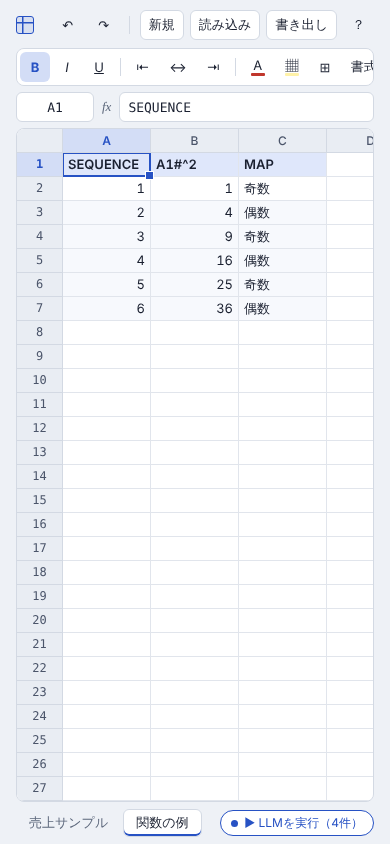
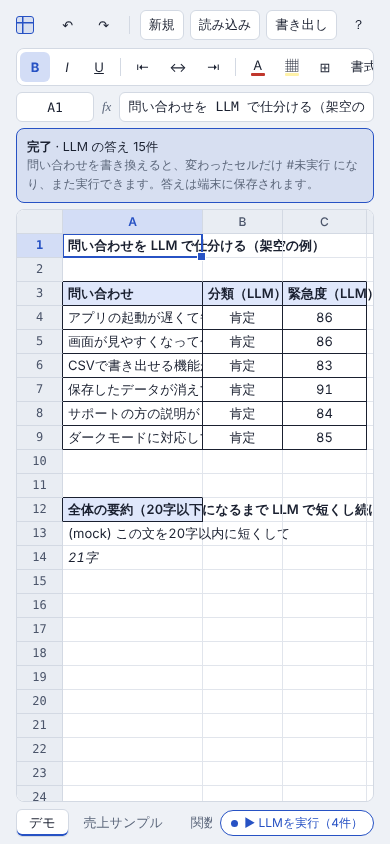
方眼シート: 最初に開くデモを「LLM で問い合わせを仕分ける」に
- デモのシート（最初に開く）: 問い合わせ6件を LLM で分類・緊急度付けし、
  COUNTIF / AVERAGE / FILTER で集計、LOOP の中の LLM で要約を短くし続ける
- 上に「▶ デモを実行」のバー。押すまで呼ばない（手動のまま）。押すと
  このシートの LLM だけを1本ずつ実行し、LOOP の次の周など後から出てきた
  呼び出しも続けて実行する。進み具合・失敗の理由・完了を表示
- provider「device」（端末内 LLM・Qwen2.5-0.5B）を使う。WebGPU が無い端末では
  その旨と、設定で Ollama などに変えられることを出す
- 「？」から「デモ」シートを足せる（前のブックが残っている端末向け）
- tests/sheet.mjs: デモの通しテスト5件を追加（24件）

Claude-Session: https://claude.ai/code/session_01187JFLJqkn8KTj1zCNq7Kp

Changed region(s): [[0.0308, 0.0924, 0.9846, 1.0], [0.5538, 0.1232, 0.6154, 0.154]]

diff --git a/sheet.html b/sheet.html
@@ -120,6 +120,11 @@ th.hs{background:var(--hsel);color:var(--accent);font-weight:600}
 .seg{display:inline-flex;border:1px solid var(--line);border-radius:6px;overflow:hidden}
 .seg button{border:none;border-radius:0;height:28px}
 .warn{color:var(--err)}
+.demo{display:flex;align-items:center;gap:10px;flex-wrap:wrap;flex:none;background:var(--accent-soft);border:1px solid var(--accent);border-radius:8px;padding:8px 10px}
+.demo .dtx{flex:1 1 240px;min-width:0;font-size:12.5px;line-height:1.55;color:var(--ink)}
+.demo .dtx b{font-weight:600}
+.demo .dtx .sub{display:block;color:var(--muted);font-size:12px}
+.demo .btn.primary{height:34px;padding:0 14px;font-weight:600}
 #toast{position:fixed;left:50%;bottom:calc(56px + env(safe-area-inset-bottom,0px));transform:translateX(-50%);background:var(--ink);color:var(--surface);padding:8px 14px;border-radius:8px;font-size:13px;z-index:60;max-width:calc(100% - 32px);text-align:center;transition:opacity .2s}
 @media (prefers-reduced-motion:reduce){#toast{transition:none}}
 @media (max-width:560px){.brand .tx{display:none}.stat{display:none}}
@@ -179,6 +184,11 @@ th.hs{background:var(--hsel);color:var(--accent);font-weight:600}
     <input id="nb" aria-label="セル番地" spellcheck="false" autocomplete="off">
     <span class="fxl">fx</span>
     <input id="fx" aria-label="数式バー" spellcheck="false" autocomplete="off">
+  </div>
+
+  <div class="demo" id="demoBar" hidden>
+    <div class="dtx" id="demoTx"></div>
+    <button class="btn primary" id="demoRun">▶ デモを実行</button>
   </div>
 
   <div class="gridwrap" id="wrap">
@@ -1107,7 +1117,7 @@ const MockProvider={
 const PROVIDERS={mock:MockProvider,openai_local:OpenAILocalProvider,webllm:WebLLMProvider};
 
 /* ---------- LLM の待ち行列（画面の側） ---------- */
-const LLMQ={queue:[],ctrl:null,progress:'',done:0,total:0};
+const LLMQ={queue:[],ctrl:null,progress:'',done:0,total:0,follow:null};
 function llmLoadCache(){try{const o=JSON.parse(localStorage.getItem(LS_LLM)||'{}');for(const k in o)LLMCore.results.set(k,o[k])}catch(_){}}
 let llmSaveT=null;
 function llmSaveCache(){clearTimeout(llmSaveT);llmSaveT=setTimeout(()=>{try{
@@ -1118,7 +1128,18 @@ LLMCore.enqueue=req=>{
   LLMQ.queue.push(req);LLMCore.queued.add(req.key);LLMQ.total++;
   setTimeout(llmPump,0);
 };
-function llmRunPending(){const list=[...LLMCore.pending.values()];list.forEach(r=>LLMCore.enqueue(r));LLMCore.pending=new Map();paint();return list.length}
+/* 実行ボタン: 未実行を順番待ちに入れる。filter を渡すとそれだけ。
+   押したあとに新しく出てきた呼び出し（LOOP の次の周など）も、同じ filter で続けて入れる（LLMQ.follow） */
+function llmRunPending(filter){
+  LLMQ.follow=filter||(()=>true);
+  const list=[...LLMCore.pending.values()].filter(r=>LLMQ.follow(r.key));
+  list.forEach(r=>{LLMCore.enqueue(r);LLMCore.pending.delete(r.key)});paint();return list.length}
+function llmFollow(){
+  if(!LLMQ.follow)return;
+  const list=[...LLMCore.pending.values()].filter(r=>LLMQ.follow(r.key));
+  list.forEach(r=>{LLMCore.enqueue(r);LLMCore.pending.delete(r.key)});
+  if(!list.length&&!LLMQ.queue.length&&!LLMCore.running)LLMQ.follow=null;
+}
 async function llmPump(){
   if(LLMCore.running||!LLMQ.queue.length){updateLLMChip();return}
   const job=LLMQ.queue.shift();LLMCore.queued.delete(job.key);LLMCore.running=job;
@@ -1143,12 +1164,12 @@ async function llmPump(){
   }finally{
     LLMCore.running=null;LLMQ.ctrl=null;LLMQ.progress='';LLMQ.done++;
     if(!LLMQ.queue.length){LLMQ.done=0;LLMQ.total=0}
-    paint();setTimeout(llmPump,0);
+    paint();llmFollow();setTimeout(llmPump,0);
   }
 }
 function llmStop(){
   const n=LLMQ.queue.length+(LLMCore.running?1:0);
-  for(const r of LLMQ.queue)LLMCore.queued.delete(r.key);LLMQ.queue=[];LLMQ.total=0;LLMQ.done=0;
+  LLMQ.follow=null;for(const r of LLMQ.queue)LLMCore.queued.delete(r.key);LLMQ.queue=[];LLMQ.total=0;LLMQ.done=0;
   if(LLMQ.ctrl)try{LLMQ.ctrl.abort()}catch(_){}
   paint();return n;
 }
@@ -1169,6 +1190,29 @@ function updateLLMChip(){
   else if(pend){chip.classList.add('wait');t.textContent=`▶ LLMを実行（${pend}件）`}
   else t.textContent=wb&&wb.llm&&wb.llm.auto?'LLM 自動':'LLM';
   if(!$('modal').hidden&&$('panel').dataset.kind==='llm')renderLLMStatus();
+  updateDemoBar();
+}
+function sheetLLMKeys(si){const keys=new Set();for(const[k,set]of cellLLM)if(k.startsWith(si+','))set.forEach(x=>keys.add(x));return keys}
+function updateDemoBar(){
+  const bar=$('demoBar');if(!bar||!wb)return;const sh=S();
+  if(!sh.demo){bar.hidden=true;return}
+  const keys=sheetLLMKeys(wb.active);let done=0,pend=0,err=null;
+  for(const k of keys){if(LLMCore.results.has(k))done++;else if(LLMCore.errors.has(k))err=err||LLMCore.errors.get(k);else pend++}
+  const busy=LLMCore.running||LLMQ.queue.length||LLMQ.follow;
+  const tx=$('demoTx'),btn=$('demoRun');bar.hidden=false;
+  const prov=(wb.llm.providers||{}).device;const what=prov?`${prov.adapter==='webllm'?'端末内の LLM':prov.adapter}（${esc(prov.model||prov.adapter)}）`:'provider「device」';
+  if(busy){btn.hidden=true;
+    tx.innerHTML=`<b>実行中</b> · ${LLMQ.progress?esc(LLMQ.progress):`答えが入ったセル ${done}件`}<span class="sub">LLM は1本ずつ呼ぶので、セルが順に埋まっていきます。下の「LLM 実行中」で止められます。</span>`}
+  else if(pend||err){btn.hidden=false;btn.textContent=err&&!pend?'▶ もう一度実行':'▶ デモを実行';
+    const gpu=typeof navigator!=='undefined'&&navigator.gpu;
+    tx.innerHTML=(err?`<b class="warn">止まった</b> · ${esc(err.code)}: ${esc(String(err.message).slice(0,140))}<span class="sub">`:`<b>分類・緊急度・要約の列は LLM を呼ぶ関数です。</b><span class="sub">`)
+      +`押すと ${what} がセルを1つずつ埋め、集計の列もそれに合わせて変わります。初回だけモデル（約300MB）を取得し、2回目からは端末に残ります。`
+      +(gpu?'':'この端末・ブラウザは WebGPU が使えないため端末内 LLM は動きません。「LLM」の設定で provider「device」を Ollama などに変えると実行できます。')+`</span>`}
+  else{btn.hidden=true;tx.innerHTML=`<b>完了</b> · LLM の答え ${done}件<span class="sub">問い合わせを書き換えると、変わったセルだけ #未実行 になり、また実行できます。答えは端末に保存されます。</span>`}
+}
+function demoRun(){
+  const si=wb.active;const keys=sheetLLMKeys(si);keys.forEach(k=>LLMCore.errors.delete(k));paint();
+  const n=llmRunPending(k=>sheetLLMKeys(si).has(k));updateDemoBar();return n;
 }
 
 /* ---------- workbook ---------- */
@@ -1198,6 +1242,32 @@ function exampleSheet(){
   sh.cw={4:230,5:120,7:220,8:96,9:150};
   return sh;
 }
+/* 最初に開くデモ。分類・緊急度・要約の列は端末内LLM（provider device）を呼ぶ。問い合わせは架空の例 */
+function demoSheet(){
+  const sh=newSheet('デモ');sh.demo=true;
+  const put=(k,v,st)=>{sh.cells[k]=Object.assign({v},st||{})};
+  const h={b:1,bg:'#dfe7fb',bd:1};
+  put('A1','問い合わせを LLM で仕分ける（架空の例）',{b:1});
+  put('A3','問い合わせ',h);put('B3','分類（LLM）',h);put('C3','緊急度（LLM）',h);
+  ['アプリの起動が遅くて毎回30秒待たされる','画面が見やすくなって作業が早くなりました','CSVで書き出せる機能が欲しいです',
+   '保存したデータが消えてしまった。至急対応してほしい','サポートの方の説明がとても丁寧でした','ダークモードに対応してもらえると嬉しい'].forEach((t,i)=>{
+    const r=i+4;put('A'+r,t,{bd:1});
+    put('B'+r,`=LLM("この問い合わせを分類して。肯定=褒めている、否定=不満や不具合、要望=機能のお願い",A${r},"肯定|否定|要望","device")`,{bd:1,al:'c'});
+    put('C'+r,`=LLM("この問い合わせの緊急度を1（低い）から5（高い）の整数で答えて",A${r},"整数","device")`,{bd:1,al:'c'});
+  });
+  put('E3','集計（ふつうの関数）',h);put('F3','',h);
+  put('E4','肯定');put('F4','=COUNTIF(B4:B9,"肯定")');
+  put('E5','否定');put('F5','=COUNTIF(B4:B9,"否定")');
+  put('E6','要望');put('F6','=COUNTIF(B4:B9,"要望")');
+  put('E7','緊急度の平均');put('F7','=ROUND(AVERAGE(C4:C9),1)');
+  put('E9','否定だけ抜き出す（FILTER）',h);
+  put('E10','=FILTER(A4:A9,B4:B9="否定","なし")');
+  put('A12','全体の要約（20字以下になるまで LLM で短くし続ける・LOOP）',h);
+  put('A13','=LOOP(LLM("これらの問い合わせ全体を一文で要約して",A4:A9,,"device"),LAMBDA(s,i,AND(LEN(s)>20,i<=3)),LAMBDA(s,i,LLM("この文を20字以内に短くして",s,,"device")))');
+  put('A14','=LEN(A13)&"字"',{i:1});
+  sh.cw={0:140,1:80,2:84,4:190,5:60};   // 電話の幅でも A〜C（問い合わせと LLM の答え）が最初の画面に入る
+  return sh;
+}
 function sampleBook(){
   const sh=newSheet('売上サンプル');
   const put=(k,v,st)=>{sh.cells[k]=Object.assign({v},st||{})};
@@ -1217,7 +1287,7 @@ function sampleBook(){
   put('A14','税込の構成比(PC)');put('B14','=E2/E7',{fmt:'pct'});
   put('G1','サンプルです。自由に書き換えてください',{i:1});
   sh.cw={0:132,4:104};
-  return fixBook({sheets:[sh,exampleSheet()],active:0,names:{'階乗':'=LAMBDA(n,IF(n<=1,1,n*階乗(n-1)))'}});
+  return fixBook({sheets:[demoSheet(),sh,exampleSheet()],active:0,names:{'階乗':'=LAMBDA(n,IF(n<=1,1,n*階乗(n-1)))'}});
 }
 function load(){
   try{const s=localStorage.getItem(LS);if(s){const o=JSON.parse(s);if(o&&o.sheets&&o.sheets.length){o.active=Math.min(o.active||0,o.sheets.length-1);return fixBook(o)}}}catch(e){}
@@ -1669,6 +1739,7 @@ on('tPaste',()=>{if(editing)commitEdit(0,0);pasteInternal();focusGrid()});
 on('tRange',()=>{rangeMode=!rangeMode;updateToolbarState();toast(rangeMode?'タップした位置まで範囲を広げます':'範囲モードを終了しました')});
 on('tNames',()=>{if(editing)commitEdit(0,0);openNames()});
 on('tLLM',()=>{if(editing)commitEdit(0,0);openLLM()});
+on('demoRun',()=>{if(editing)commitEdit(0,0);demoRun()});
 on('llmChip',()=>{if(editing)commitEdit(0,0);
   if(!LLMCore.running&&LLMCore.pending.size){const n=llmRunPending();toast(`${n}件を順に実行します`)}else openLLM()});
 
@@ -1909,8 +1980,9 @@ on('bHelp',()=>{
   <p>答えは provider の設定・送る文・形ごとに保存し、同じ問いでは呼び直しません。待っている間は <code>#待機中</code>・<code>#実行中</code>、手動モードでは <code>#未実行</code>。失敗は <code>#LLM!</code> になり、セルを選ぶと下に理由が出ます。自動では再試行しません。</p>
   <div class="fnlist">${FN_GROUPS.map(([g,l])=>`<b>${g}</b>　${l.split(' ').join('、')}`).join('<br>')}</div>
   <p>内容はこのブラウザに自動保存されます。</p>
-  <div class="row"><button class="btn solid" id="hEx">「関数の例」シートを追加</button><button class="btn primary" id="hClose">閉じる</button></div>`,p=>{
+  <div class="row"><button class="btn solid" id="hDemo">「デモ」シートを追加</button><button class="btn solid" id="hEx">「関数の例」シートを追加</button><button class="btn primary" id="hClose">閉じる</button></div>`,p=>{
     p.querySelector('#hClose').onclick=closeModal;
+    p.querySelector('#hDemo').onclick=()=>{pushUndo();const sh=demoSheet();sh.name=uniqueName(sh.name);wb.sheets.push(sh);closeModal();switchSheet(wb.sheets.length-1)};
     p.querySelector('#hEx').onclick=()=>{pushUndo();const sh=exampleSheet();sh.name=uniqueName(sh.name);wb.sheets.push(sh);if(!wb.names['階乗'])wb.names['階乗']='=LAMBDA(n,IF(n<=1,1,n*階乗(n-1)))';closeModal();switchSheet(wb.sheets.length-1)};
   });
 });
@@ -1925,7 +1997,7 @@ if(!coarse)ed.focus({preventScroll:true});
 window.addEventListener('resize',()=>updateSel());
 if(location.protocol.startsWith('http'))loadSiteModels();
 /* テストから中を見る口（tests/sheet.mjs） */
-window.__sheet={engine:ENGINE,LLMCore,LLMQ,PROVIDERS,TRANSPORTS,ModelManager,paint,get wb(){return wb},set wb(v){wb=fixBook(v);renderTabs();build()},runPending:llmRunPending,stop:llmStop,rerun:llmRerun,select,extend};
+window.__sheet={engine:ENGINE,LLMCore,LLMQ,PROVIDERS,TRANSPORTS,ModelManager,paint,get wb(){return wb},set wb(v){wb=fixBook(v);renderTabs();build()},runPending:llmRunPending,demoRun,stop:llmStop,rerun:llmRerun,select,extend};
 })();
 </script>
 </body>
